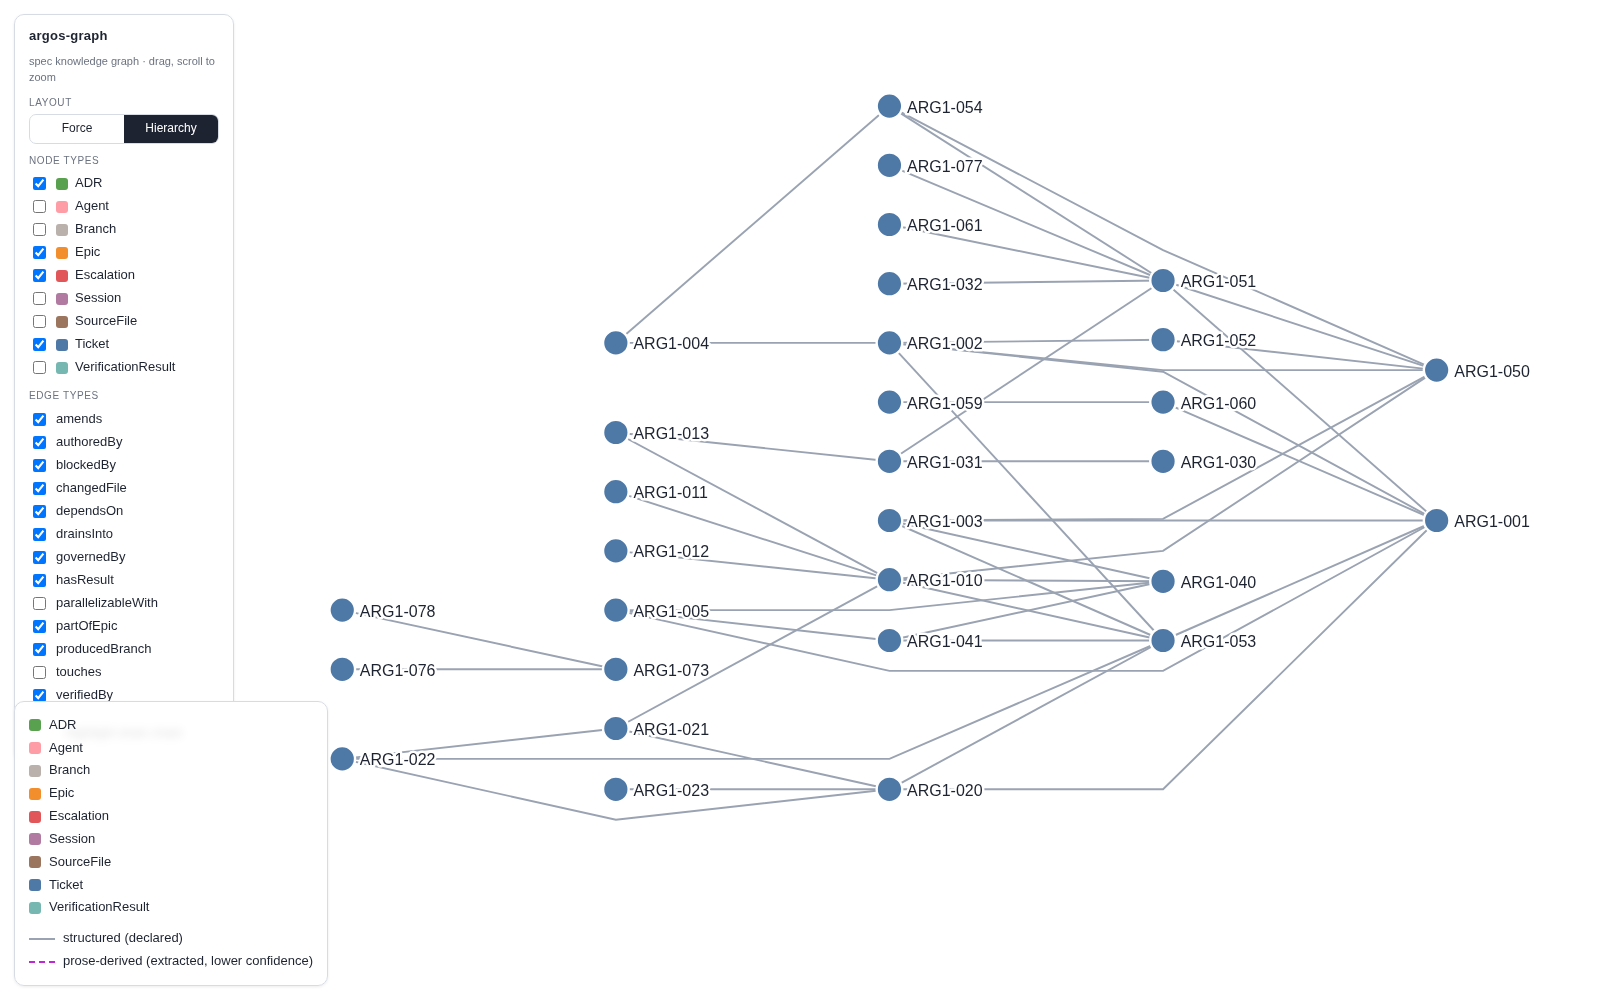
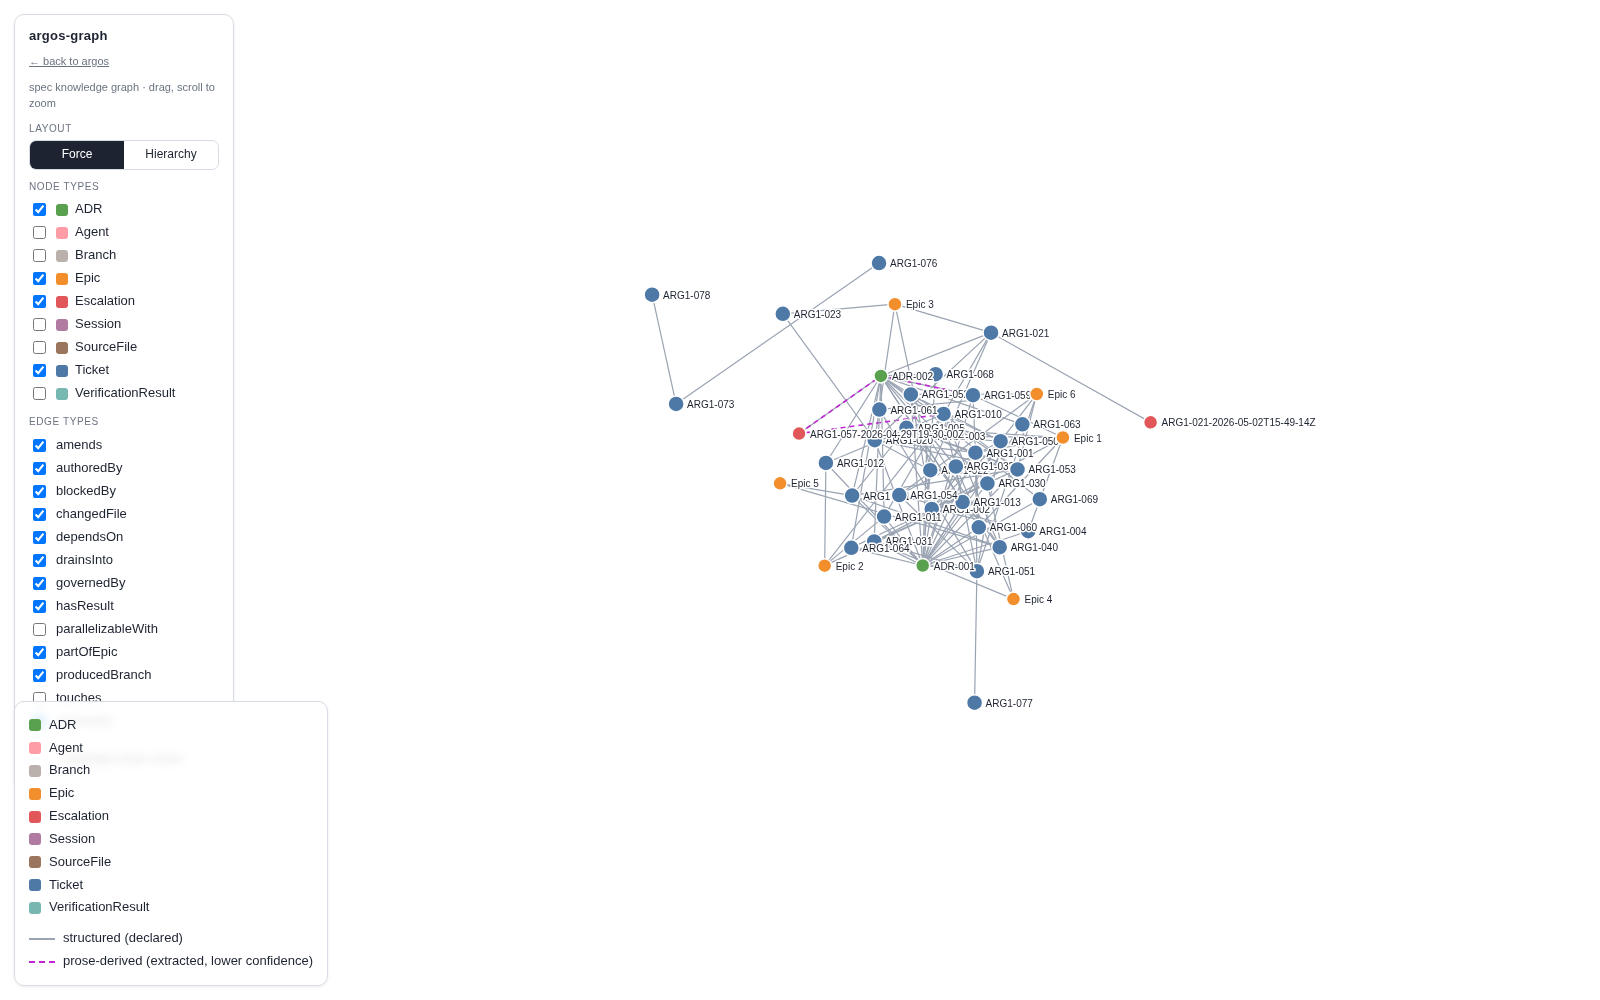
fix: argos-graph viz auto-centers both layouts; docs graph gets back link

diff --git a/tools/argos-graph/argos_graph/viz_template.html b/tools/argos-graph/argos_graph/viz_template.html
@@ -211,9 +211,15 @@ function render() {
 
 function runForce(ns, ls) {
   ns.forEach(n => { n.fx = null; n.fy = null; });   // release any hierarchy pins
-  sim.nodes(ns).on("tick", tick);
+  sim.nodes(ns).on("tick", tick).on("end", () => { if (!userMoved) fitView(); });
   sim.force("link").links(ls);
   sim.alpha(0.7).restart();
+  // the simulation spreads out from the origin — center it in the viewport
+  // right away, then fitView() reframes precisely once it settles.
+  if (!userMoved) {
+    const w = svg.node().clientWidth, h = svg.node().clientHeight;
+    svg.call(zoom.transform, d3.zoomIdentity.translate(PANEL_W + (w - PANEL_W) / 2, h / 2));
+  }
 }
 
 function tick() {
@@ -231,6 +237,7 @@ function applyHierarchy(ns, H) {
     if (routed && routed.length > 1) return line(routed);                 // dependsOn: routed path
     return `M${d.source.x},${d.source.y}L${d.target.x},${d.target.y}`;    // other directed: straight
   });
+  if (!userMoved) fitView();
 }
 
 // ---- hierarchical (layered DAG) layout ----------------------------------
@@ -342,7 +349,30 @@ function dragged(ev, d) { if (mode !== "force") return; d.fx = ev.x; d.fy = ev.y
 function dragEnd(ev, d) { if (mode !== "force") return; if (!ev.active) sim.alphaTarget(0); d.fx = null; d.fy = null; }
 
 // zoom / pan --------------------------------------------------------------
-svg.call(d3.zoom().scaleExtent([0.2, 5]).on("zoom", ev => root.attr("transform", ev.transform)));
+let userMoved = false;   // once the user pans/zooms, auto-fit stops repositioning
+const zoom = d3.zoom().scaleExtent([0.2, 5]).on("zoom", ev => {
+  if (ev.sourceEvent) userMoved = true;
+  root.attr("transform", ev.transform);
+});
+svg.call(zoom);
+
+// fit the drawn nodes into the viewport right of the control panel
+const PANEL_W = 250;
+function fitView(animate = true) {
+  const ns = nodeSel ? nodeSel.data() : [];
+  if (!ns.length || ns.some(n => n.x == null)) return;
+  const xs = ns.map(n => n.x), ys = ns.map(n => n.y);
+  const x0 = Math.min(...xs), x1 = Math.max(...xs);
+  const y0 = Math.min(...ys), y1 = Math.max(...ys);
+  const w = svg.node().clientWidth, h = svg.node().clientHeight, pad = 60;
+  const k = Math.max(0.2, Math.min((w - PANEL_W - 2 * pad) / Math.max(1, x1 - x0),
+                                   (h - 2 * pad) / Math.max(1, y1 - y0), 1.5));
+  const t = d3.zoomIdentity
+    .translate(PANEL_W + (w - PANEL_W) / 2 - k * (x0 + x1) / 2,
+               h / 2 - k * (y0 + y1) / 2)
+    .scale(k);
+  (animate ? svg.transition().duration(400) : svg).call(zoom.transform, t);
+}
 
 // type filter -------------------------------------------------------------
 const typesBox = d3.select("#types");

diff --git a/argos/specs/STATE.md b/argos/specs/STATE.md
@@ -33,6 +33,7 @@ Tickets completed since the last cycle close. Cleared when you close a cycle (we
 - Init guard fix — removed redundant `STATE.md` heuristic; sentinel is sole source of truth for "already initialized" (commit `d409774`). Resolves the drift flagged after `7cd81f2`.
 - ARG1-050 (2026-04-26) — STATE.md append-mostly block schema doc + reference parser shipped; 13/13 pytest tests pass; 12 files added under `argos/specs/v1.0/schemas/` and `argos/cli/`.
 - ARG1-040 — Escalation file schema and `escalations/` directory contract verified 2026-04-26 (manual session, no worktree dispatch — v0.5 loop run on the v1.0 spec tree). New files: `argos/specs/v1.0/schemas/escalation.md`, `argos/specs/v1.0/schemas/examples/escalation-{blocking,malformed}.md`, `argos/specs/escalations/{.gitkeep,README.md}`, `argos/cli/{__init__.py,escalation_validator.py,escalation-validate,tests/__init__.py,tests/test_escalation_validator.py}`. 7 unit tests pass; all 6 acceptance criteria covered. 0 critical / 0 major / 0 minor findings. Decision: pass. Validator language is provisional Python pending ADR-001; stdlib only, no deps added.
+- [2026-07-07] Off-ticket hotfix (explicit user request, outside the loop) — argos-graph viz now auto-centers: `fitView()` + initial origin-centering in `tools/argos-graph/argos_graph/viz_template.html` (force mode centers immediately and refits on simulation settle; hierarchy fits synchronously; auto-fit stops once the user pans/zooms). 22/22 argos-graph pytest tests pass. Also added `scripts/build-docs.sh` (regenerates `docs/graph.html` for the GitHub Pages showcase and injects a back-to-landing link; the tool template stays landing-page-agnostic).
 
 
 <!-- argos:entry id=2026-05-03T16:56:21Z-ARG1-032-verify ticket=ARG1-032 author=verifier session=local-2026-05-03 -->